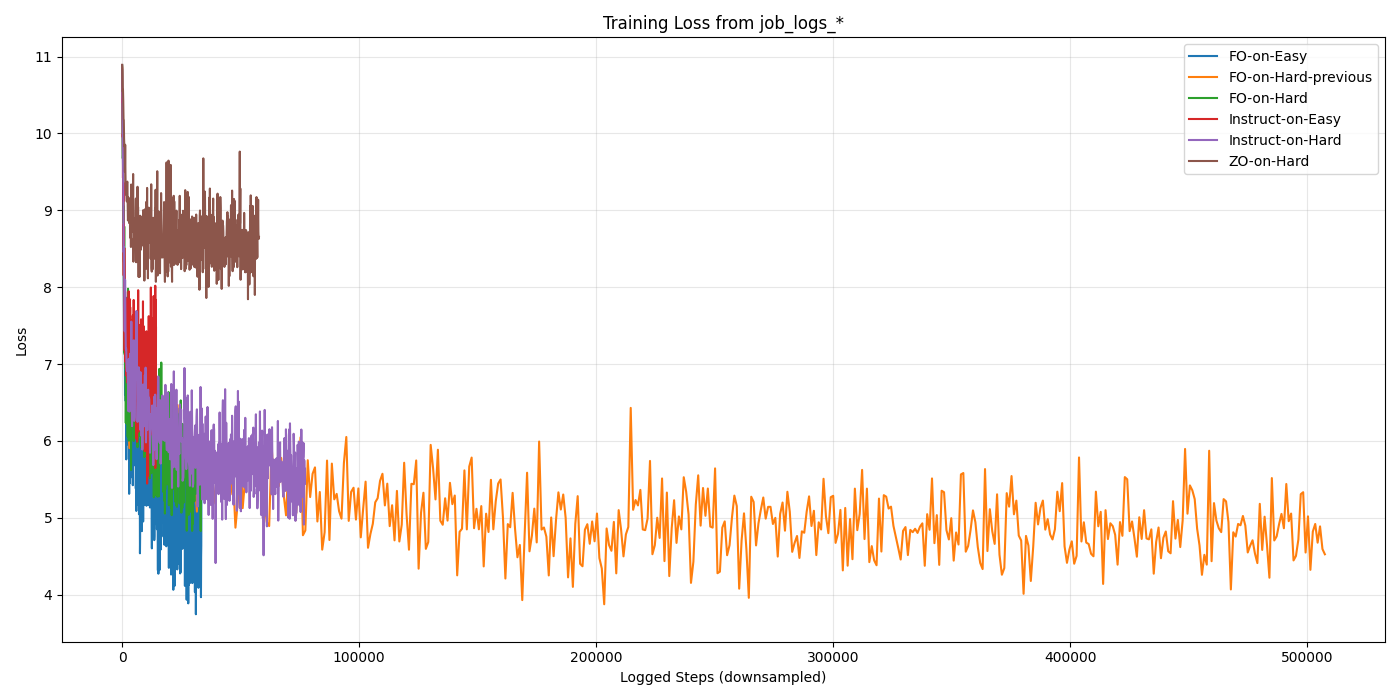
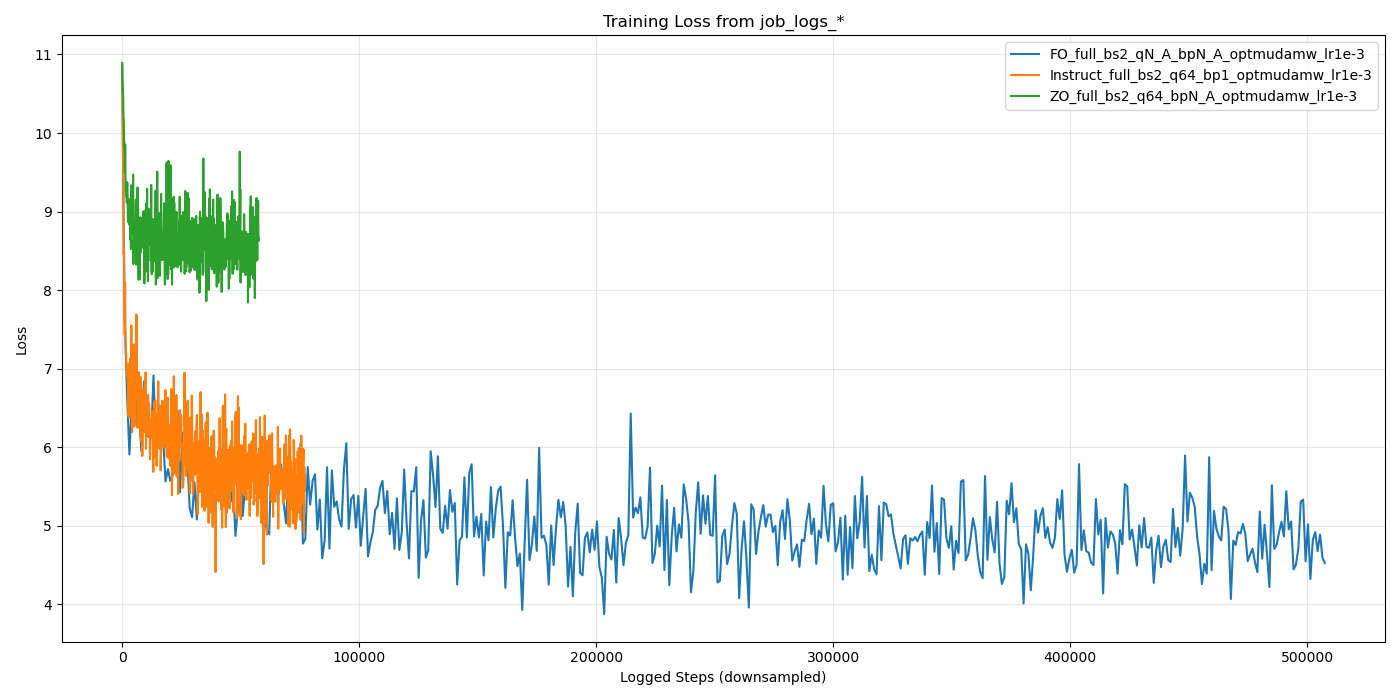
use low-rank R to establish vector with high similarity.

diff --git a/reproduce_zo_paper.py b/reproduce_zo_paper.py
@@ -253,6 +253,185 @@ def compute_backprop_gradients(model, trainable_params, loss_fn, inputs, labels)
     return loss.detach(), grads
 
 
+def generate_instruct_directions_with_R(bp_grads, q, cosine_target, total_norm, total_norm_sq):
+    """生成与BP梯度方向保持给定余弦相似度的方向迭代器，使用低秩映射R。"""
+    if not bp_grads or q is None or q <= 0:
+        return None
+    if total_norm <= 1e-12:
+        return None
+
+    cosine_target = float(cosine_target)
+    cosine_target = max(min(cosine_target, 0.9999), -0.9999)
+    orth_scale = math.sqrt(max(0.0, 1.0 - cosine_target ** 2))
+    eps = 1e-12
+
+    # 将梯度列表展平成一个长向量
+    grad_flat = torch.cat([g.flatten() for g in bp_grads])
+    d = grad_flat.numel()
+
+    def generator():
+        for idx in range(q):
+            start_time = time.time()
+
+            # 生成随机向量
+            noise_flat = torch.randn(d)
+
+            # 构造低秩映射 R
+            # 我们用一个小型旋转矩阵作为R
+            r = min(64, d)  # 可调低秩大小
+            R = torch.randn(r, r)
+
+            # 将噪声映射到低秩空间
+            if r < d:
+                # 取前r维作为低秩空间
+                N_low = noise_flat[:r]
+            else:
+                N_low = noise_flat
+
+            mapped_noise = torch.zeros_like(grad_flat)
+            mapped_noise[:r] = N_low @ R  # 映射
+            mapped_noise = mapped_noise / (mapped_noise.norm() + eps)
+
+            # 构造最终方向
+            direction_flat = cosine_target * grad_flat / (grad_flat.norm() + eps) + orth_scale * mapped_noise * total_norm
+
+            # 计算实际余弦相似度
+            actual_cosine_sim = torch.dot(direction_flat, grad_flat) / ((direction_flat.norm() + eps) * total_norm)
+
+            # 反展开成梯度列表的形状
+            direction = []
+            start = 0
+            for g in bp_grads:
+                sz = g.numel()
+                direction.append(direction_flat[start:start+sz].view_as(g))
+                start += sz
+
+            elapsed = time.time() - start_time
+            print(f"[Instruct] Perturbation {idx+1}/{q}: "
+                  f"R.shape={R.shape}, cosine_similarity={actual_cosine_sim.item():.6f}, "
+                  f"time={elapsed:.4f}s")
+
+            yield direction
+
+    return generator()
+
+def generate_instruct_directions_blocked(bp_grads, q, cosine_target, total_norm, device=None, block_size=16384, rank_per_block=8):
+    """
+    分块生成与BP梯度保持给定余弦相似度的扰动方向（GPU优化版本）
+    
+    Args:
+        bp_grads: list of tensors (梯度)
+        q: 生成次数
+        cosine_target: 目标余弦相似度
+        total_norm: bp_grads总L2范数
+        device: 设备 ('cuda' 或 'cpu')，如果为None则从bp_grads推断
+        block_size: 每块的大小（默认16384，增大以减少块数）
+        rank_per_block: 每块的低秩映射维度（默认8，减小R的大小）
+    
+    Returns:
+        generator: 生成方向向量的迭代器
+    """
+    if not bp_grads or q <= 0:
+        return None
+
+    # 自动推断device
+    if device is None:
+        device = bp_grads[0].device if hasattr(bp_grads[0], 'device') else torch.device('cpu')
+    
+    eps = 1e-12
+    cosine_target = max(min(float(cosine_target), 0.9999), -0.9999)
+    orth_scale = math.sqrt(max(0.0, 1.0 - cosine_target ** 2))
+
+    # 展平梯度并移到GPU
+    grad_flat = torch.cat([g.flatten().to(device) for g in bp_grads])
+    d = int(grad_flat.numel())
+    block_size = int(block_size)
+    num_blocks = math.ceil(d / block_size)
+    
+    # 预计算归一化梯度（避免重复计算）
+    grad_norm = grad_flat.norm() + eps
+    grad_normalized = grad_flat / grad_norm
+
+    def generator():
+        for idx in range(q):
+            start_time = time.time()
+
+            # 初始化总噪声向量（在GPU上）
+            total_noise = torch.zeros(d, device=device, dtype=grad_flat.dtype)
+            total_R_size = 0
+
+            # 分块生成（使用更小的rank以减少R的大小）
+            for b in range(num_blocks):
+                start = b * block_size
+                end = min((b+1)*block_size, d)
+                size = end - start
+
+                # 当前块的rank（减小以降低R的大小）
+                r = min(rank_per_block, size)
+                
+                # 生成块噪声（直接在GPU上）
+                noise_block = torch.randn(size, device=device, dtype=grad_flat.dtype)
+
+                # 小低秩矩阵 R（使用更小的rank）
+                R = torch.randn(r, r, device=device, dtype=grad_flat.dtype)
+                
+                # 使用前r维进行映射（内存友好）
+                noise_low = noise_block[:r]
+                mapped_low = noise_low @ R
+                
+                # 创建映射后的块噪声
+                mapped_noise_block = torch.zeros(size, device=device, dtype=grad_flat.dtype)
+                mapped_noise_block[:r] = mapped_low
+                
+                # 如果size > r，剩余部分使用原始噪声（保持随机性）
+                if size > r:
+                    mapped_noise_block[r:] = noise_block[r:]
+
+                # 归一化块噪声
+                block_norm = mapped_noise_block.norm() + eps
+                mapped_noise_block = mapped_noise_block / block_norm
+
+                # 累加到总噪声
+                total_noise[start:end] = mapped_noise_block
+                total_R_size += R.numel()
+
+            # 归一化总噪声
+            total_noise_norm = total_noise.norm() + eps
+            total_noise = total_noise / total_noise_norm
+
+            # 构造最终方向（使用预计算的归一化梯度）
+            direction_flat = cosine_target * grad_normalized * total_norm + orth_scale * total_norm * total_noise
+
+            # 实际余弦相似度（优化计算）
+            direction_norm = direction_flat.norm() + eps
+            actual_cosine_sim = torch.dot(direction_flat, grad_flat) / (direction_norm * total_norm)
+
+            # 展开回原形状（延迟移到CPU，如果需要的话）
+            direction = []
+            start = 0
+            for g in bp_grads:
+                sz = g.numel()
+                dir_tensor = direction_flat[start:start+sz].view_as(g)
+                # 如果原始梯度在CPU，则移回CPU
+                if g.device != device:
+                    dir_tensor = dir_tensor.to(g.device)
+                direction.append(dir_tensor)
+                start += sz
+
+            elapsed = time.time() - start_time
+            # 在第一个和最后一个idx打印，确保及时输出
+            should_print = (idx == 0) or (idx == q - 1) or ((idx + 1) % max(1, q // 4) == 0)
+            if should_print:
+                total_R_size_mb = total_R_size * 4 / (1024 * 1024)  # 假设float32，4字节/元素
+                print(f"[Block Instruct] Perturbation {idx+1}/{q}: "
+                      f"total_R_size={total_R_size} ({total_R_size_mb:.2f}MB, rank={rank_per_block}, blocks={num_blocks}), "
+                      f"cosine_similarity={actual_cosine_sim.item():.6f}, "
+                      f"time={elapsed:.4f}s, device={device}", flush=True)
+
+            yield direction
+
+    return generator()
+
 def generate_instruct_directions(bp_grads, q, cosine_target, total_norm, total_norm_sq):
     """生成与BP梯度方向保持给定余弦相似度的方向迭代器。"""
     if not bp_grads or q is None or q <= 0:
@@ -805,12 +984,12 @@ def train(
                         total_norm_sq += float(torch.sum(g * g).item())
                     total_norm = math.sqrt(total_norm_sq)
                     if total_norm > 0.0:
-                        manual_dirs = generate_instruct_directions(
+                        manual_dirs = generate_instruct_directions_blocked(
                             bp_grads,
                             q,
                             INSTRUCT_COSINE_TARGET,
                             total_norm,
-                            total_norm_sq,
+                            device=device,
                         )
                     if manual_dirs is None and total_norm is not None and total_norm > 0.0:
                         manual_dirs = ([g / total_norm for g in bp_grads],)

diff --git a/plot_log.py b/plot_log.py
@@ -60,7 +60,7 @@ def downsample_series(values: List[float], max_points: Optional[int]) -> Tuple[L
 
 
 def iter_log_files(root: Path) -> Iterable[Path]:
-    for job_dir in sorted(root.glob("job_logs_*")):
+    for job_dir in sorted(root.glob("job_logs*")):
         if not job_dir.is_dir():
             continue
         for log_file in sorted(job_dir.glob("*.log")):

diff --git a/README_evaluate.md b/README_evaluate.md
@@ -266,3 +266,5 @@ python evaluate_checkpoint.py ... --force_reload
 
 
 
+
+
